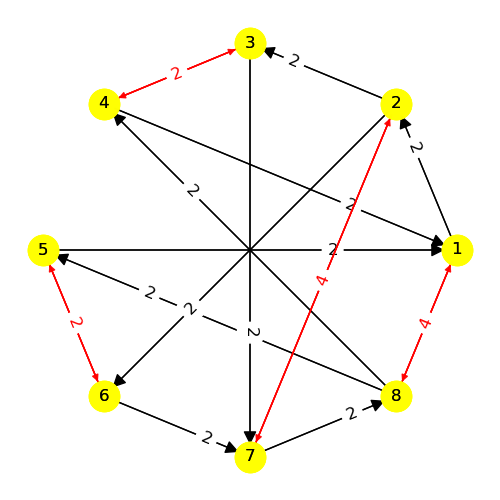
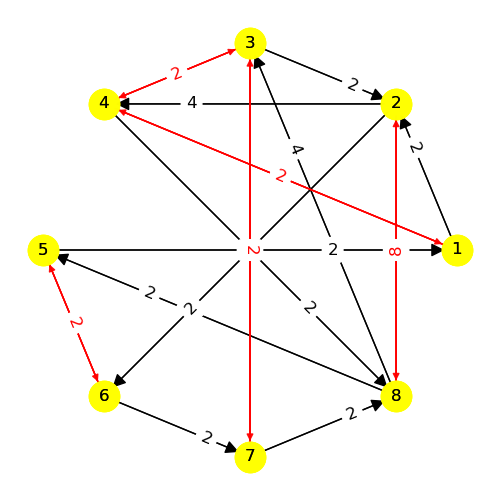
results

diff --git a/figs/model12/README.md b/figs/model12/README.md
@@ -84,29 +84,89 @@
 |---|
 |Phase 21|
 
+|<img src="./model12_phase_21.png" width="100" height="100"> |
+|---|
+|Phase 22|
+
+|<img src="./model12_phase_22.png" width="100" height="100"> |
+|---|
+|Phase 23|
+
+|<img src="./model12_phase_23.png" width="100" height="100"> |
+|---|
+|Phase 24|
+
+|<img src="./model12_phase_24.png" width="100" height="100"> |
+|---|
+|Phase 25|
+
+|<img src="./model12_phase_25.png" width="100" height="100"> |
+|---|
+|Phase 26|
+
+|<img src="./model12_phase_26.png" width="100" height="100"> |
+|---|
+|Phase 27|
+
+|<img src="./model12_phase_27.png" width="100" height="100"> |
+|---|
+|Phase 28|
+
+|<img src="./model12_phase_28.png" width="100" height="100"> |
+|---|
+|Phase 29|
+
+|<img src="./model12_phase_29.png" width="100" height="100"> |
+|---|
+|Phase 30|
+
+|<img src="./model12_phase_30.png" width="100" height="100"> |
+|---|
+|Phase 31|
+
+|<img src="./model12_phase_31.png" width="100" height="100"> |
+|---|
+|Phase 32|
+
+|<img src="./model12_phase_32.png" width="100" height="100"> |
+|---|
+|Phase 33|
+
 ---
 ## Web Table ##
 ---
-||Phase 1|Phase 2|Phase 3|Phase 4|Phase 5|Phase 6|Phase 7|Phase 8|Phase 9|Phase 10|Phase 11|Phase 12|Phase 13|Phase 14|Phase 15|Phase 16|Phase 17|Phase 18|Phase 19|Phase 20|Phase 21|
-|---|---|---|---|---|---|---|---|---|---|---|---|---|---|---|---|---|---|---|---|---|---|
-Phase 1||1|-1, 6|3|4|-6|-7|-8||||||||||||||
-Phase 2|-1, -6||1, 6||||||3|-4, -7|5|-8||||||||||
-Phase 3|1, -5|-1|4, -6||2|5|-8||||||3|-4, 6|-7|||||||
-Phase 4|-3||||6|||-7|1||||-1|||-6|7|||||
-Phase 5|-4||-1|-8|||||||||6|||8||-6|-7|||
-Phase 6|1, 6||-1, -6||||||-8||-2|||||3||4, 7||||
-Phase 7|7||6|||||3||1||-3|||-1||||4|||
-Phase 8|8|||4|||-1||-6|||1|||6||-4|||||
-Phase 9||-3||-1, -6||5||4, 7|||||1, 6||-4, -7|||||||
-Phase 10||4, 5|||||-3, -6|||||||1|3, 6|||||-7||
-Phase 11||-4, -5, -7||||1, 3, 6||||||||||||||||
-Phase 12||8|||||1, 6|-1, -6||||||||||||||
-Phase 13|||-3, -4|1, 7|-5, -6||||-1, -7|||||||||5, 6||||
-Phase 14|||3, -3, 4, -4, 5, -5, 6, -6|||||||-1, -7||||||||2, 8||||
-Phase 15|||6, 7||||1, 4|-3, -5|3, 5|-1, -4||||||||||||
-Phase 16||||1, 6|-1, -6|-3||||||||||||||||
-Phase 17||||-1, -7||||1, 7||||||||||||||
-Phase 18|||||6, 8|-2, -4|||||||-6, -8|-1|||||||7|
-Phase 19|||||6, 7||-1, -4|||||||||||||||
-Phase 20||||||||||1, 3, 4, 5, 6, 7||||||||||||
-Phase 21||||||||||||||||||-1, -2, -4, -6, -7, -8||||
+||Phase 1|Phase 2|Phase 3|Phase 4|Phase 5|Phase 6|Phase 7|Phase 8|Phase 9|Phase 10|Phase 11|Phase 12|Phase 13|Phase 14|Phase 15|Phase 16|Phase 17|Phase 18|Phase 19|Phase 20|Phase 21|Phase 22|Phase 23|Phase 24|Phase 25|Phase 26|Phase 27|Phase 28|Phase 29|Phase 30|Phase 31|Phase 32|Phase 33|
+|---|---|---|---|---|---|---|---|---|---|---|---|---|---|---|---|---|---|---|---|---|---|---|---|---|---|---|---|---|---|---|---|---|---|
+Phase 1||1|-1, 6|3|4|-6|-7|-8||||||||||||||||||||||||||
+Phase 2|-1, -6||1||||||3|-4, -7|5|6|-8|||||||||||||||||||||
+Phase 3|1, -5|-1|||2|5|-8|||||||3|4, -6|-4, 6|-7|||||||||||||||||
+Phase 4|-3||||6|||-7|1|||||-1||||-6|7|||||||||||||||
+Phase 5|-4|||||||||||||6|-1|||8||-6|-7|-8||||||||||||
+Phase 6|1, 6||-6||||||||-2||||-1|||3||4, 7|||-8|||||||||||
+Phase 7|7|||||||3||1||6|-3||||-1||||4|||||||||||||
+Phase 8|8||||||-1||||||1||||||-4|||4|-6|6||||||||||
+Phase 9||-3||-1, -6||5||4, 7||||||1, 6|||-7||||||||-4|||||||||
+Phase 10||4, 5|||||-3, -6|||||||||1|6||||||||3|-7||||||||
+Phase 11||-4, -5, -7||||1, 3, 6||||||||||||||||||||||||||||
+Phase 12|-5, 6|-6|-1||2|5|-8|||||||3||1, -7|-4||||||||||7|||||||
+Phase 13||8|||||1, 6|-1||||||||||||||||||||-6||||||
+Phase 14|||-3|1, 7|-5, -6||||-1, -7|||||||||||5, 6|||||||-4|||||||
+Phase 15|5, -8|-5|-4||1|8|-7|||||||||4|-3||||||||||||2|6|-6|||
+Phase 16|||-3, 4, 5|||||||-1, -7|||||-4, -5, 6, -6|||||2, 8|||||||3|||||||
+Phase 17|||7||||1, 4|-3, -5|3, 5|-1, -4|||||||||||||||||6|||||||
+Phase 18||||1, 6|-1, -6|-3||||||||||||||||||||||||||||
+Phase 19||||-1, -7||||1, 7||||||||||||||||||||||||||
+Phase 20|||||6, 8|-2, -4||||||||-6, -8|||||||||||||||||-1|7||
+Phase 21|||||6, 7||-1, -4|||||||||||||||||||||||||||
+Phase 22|-1||||8|||-4|6|||||-6||||-8|4|||||||||||||||
+Phase 23||-2||-4, -7||8||6||||||4, 7||||||||||-6|-1|||1||||||
+Phase 24|||7, 8||||1, 2|-4, -6|4|-1, -2|||||||||||||6|||||||||||
+Phase 25|||||||3, 7|-4, -6|4|-3, -7||5|||||||||||6||||1|||||||
+Phase 26||||||||||1, 3, 4, 5, 6, 7||||||||||||||||||||||||
+Phase 27|5, -8|-5|||6|8|-4|||||1, -7||||-1, 7|-3||||||||||||2|||||
+Phase 28|8|||7|||-6||||||6||||||-7||||-1||1|||||||||
+Phase 29||||3, 5|-4, -8||||-3|||-6|||-2|||||4, 8|||-5|||||||||||
+Phase 30|-7, 8|-8|||5|7|-3|||||||1|4, -6|-4||||||||-2|||||||6|||
+Phase 31|||-8|||||||-3, -5||2, 8|||4, -4, 6|||||1, 7||||||||||-6|||-2|
+Phase 32||||||||||||||||||||-1, -2, -4, -6, -7, -8||||||||||||||
+Phase 33|-1, 4|-4|8||3|1|-5|||||-2||||-8||||||||-6|||||7||2|||
